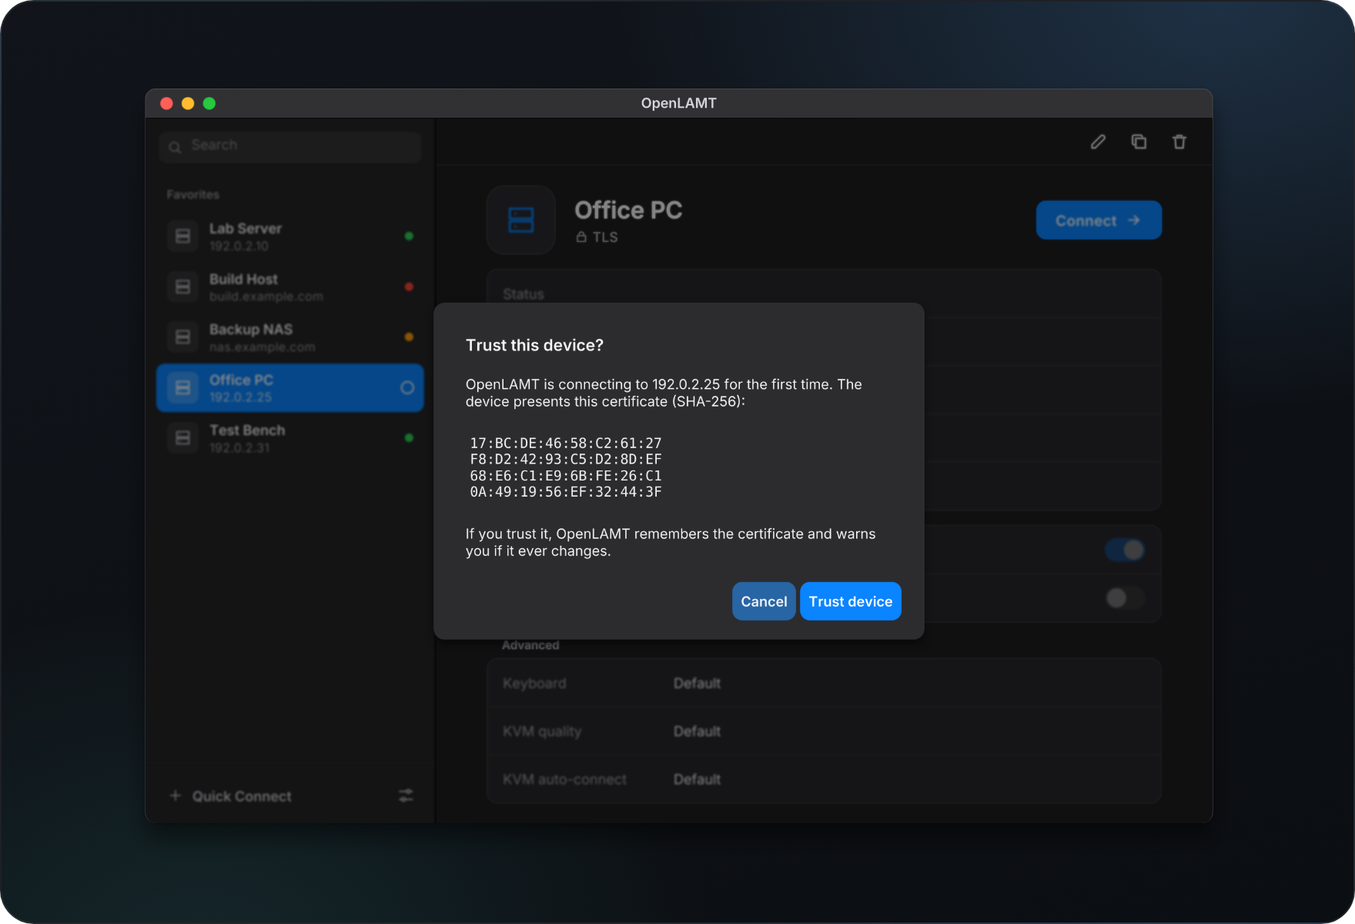
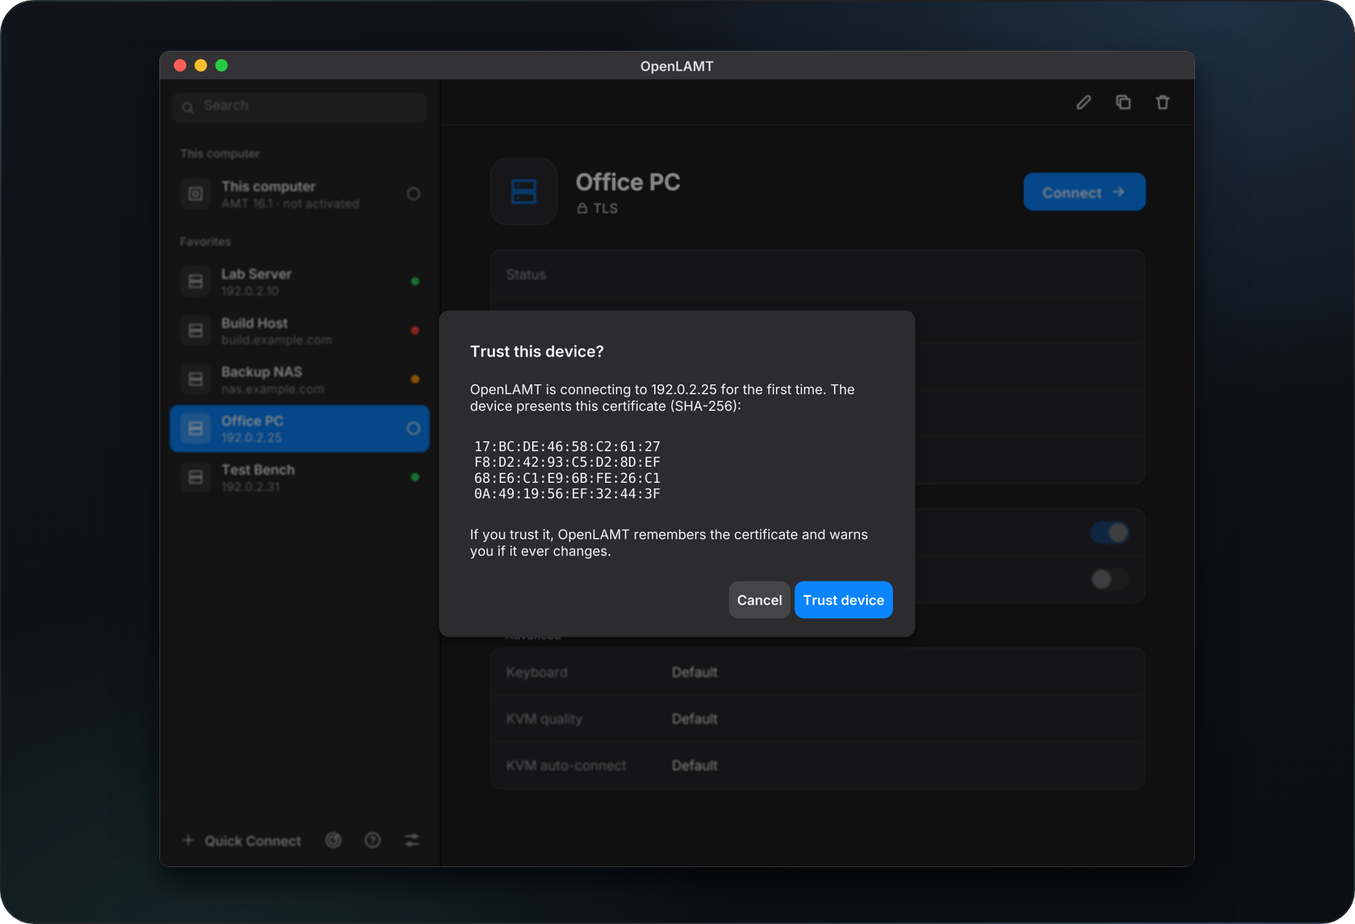
docs: refresh README with MCP, new features and current screenshots (#179)
* docs: refresh README with MCP, new features and current screenshots

- Download and User guide buttons under the claim
- New sections: Find your devices, Let an AI agent run your devices,
  And more; shorter MCP details that point to the MCP guide
- Re-rendered hero, favorites, cross-platform, power, settings and
  trust shots with the current UI; new scan, MCP client and
  System Defense shots
- MCP guide (EN and DE): the action log is written without a config
  file, and the mount question says when IDE-R gets turned on

* docs: show openlamt-mcp in Claude and polish the hero's MCP item

* docs: center the hero's New label and describe MCP as maintenance help

* docs: mention unattended OS installs in the hero's MCP item

* docs: show the three platform windows upright in the README

* docs: fan out the platform windows again, with upright edges

* docs: space the platform windows evenly by their window edges

* docs: align the platform windows by their content so each shows the same part

---------

diff --git a/site/de/mcp.html b/site/de/mcp.html
@@ -135,7 +135,7 @@
   <li><code>media_boot_next</code> lässt das Gerät beim nächsten Start vom Abbild booten. <code>boot_from_iso</code> startet es jetzt vom Abbild neu; ein ausgeschaltetes Gerät wird nur eingeschaltet. <code>media_status</code> zeigt, was eingehängt ist und wie schnell das Gerät es liest.</li>
   <li>Das Abbild bleibt eingehängt bis <code>media_unmount</code>, bis das Gerät die Sitzung beendet oder bis der Client den Server beendet. Die mit <code>media_boot_next</code> gesetzte Boot-Option wird dann gelöscht. Scheitert ein Boot vom Abbild auf halbem Weg, löscht <code>media_unmount</code> die Boot-Option ebenfalls.</li>
   <li>Eine Mediensitzung pro Gerät: Solange der Agent sie hält, kann das Menü „Medien“ der App auf diesem Gerät nichts einhängen, und umgekehrt.</li>
-  <li>Ist die Medienumleitung (IDE-R) ausgeschaltet, schaltet <code>media_mount</code> sie ein, und sie bleibt eingeschaltet. Dafür braucht es die Gruppe <code>settings</code>.</li>
+  <li>Ist die Medienumleitung (IDE-R) ausgeschaltet, schaltet <code>media_mount</code> sie ein, und sie bleibt eingeschaltet. Dafür braucht es die Gruppe <code>settings</code>. Mit <code>require_client_confirmation</code> sagt dir die Rückfrage zum Einhängen, dass IDE-R eingeschaltet wird.</li>
 </ul>
 <div class="warn"><b>Ein eingehängter Ordner ist am Gerät lesbar.</b>Wer das Gerät oder seinen Fernbildschirm nutzt, kann jede Datei eines eingehängten Ordners lesen. <code>openlamt-mcp</code> lehnt deshalb einige Ordner ab, aber die Liste kann nicht jeden Ort mit Geheimnissen abdecken. Setze <code>media.allowed_paths</code> auf die Ordner mit deinen Abbildern.</div>
 <div class="prose">
@@ -172,7 +172,7 @@
 </div>
 
 <h2 id="config">Begrenzen, was der Agent darf</h2>
-<div class="warn"><b>Ohne Konfigurationsdatei ist alles erlaubt.</b>Jeder Favorit und jede Aktion; nur die orangen und roten Änderungen an Einstellungen und Konten fragen nach. Schreib eine Konfigurationsdatei, bevor du deine Geräte einem Agenten überlässt, dem du nicht ganz vertraust.</div>
+<div class="warn"><b>Ohne Konfigurationsdatei ist alles erlaubt.</b>Jeder Favorit und jede Aktion; nur die orangen und roten Änderungen an Einstellungen und Konten fragen nach. Das Aktionsprotokoll wird trotzdem geschrieben. Schreib eine Konfigurationsdatei, bevor du deine Geräte einem Agenten überlässt, dem du nicht ganz vertraust.</div>
 <div class="prose">
 <p>Die Konfigurationsdatei ist <code>openlamt-mcp.json</code> neben <code>favorites.json</code> in deinem Konfigurationsordner, oder die Datei, die du mit <code>--config &lt;path&gt;</code> angibst. Das sind die Standardwerte:</p>
 <pre><code>{

diff --git a/site/mcp.html b/site/mcp.html
@@ -135,7 +135,7 @@
   <li><code>media_boot_next</code> makes the device boot from the image at its next start. <code>boot_from_iso</code> restarts it from the image now; a device that is off is only powered on. <code>media_status</code> shows what is mounted and how fast the device reads it.</li>
   <li>The image stays mounted until <code>media_unmount</code>, until the device ends the session, or until the client stops the server. The boot option set with <code>media_boot_next</code> is cleared then. If a boot from the image fails halfway, <code>media_unmount</code> clears the boot option as well.</li>
   <li>One media session per device: while the agent holds it, the app’s Media menu cannot mount on that device, and the other way round.</li>
-  <li>If media redirection (IDE-R) is off, <code>media_mount</code> turns it on, and it stays on. That needs the group <code>settings</code>.</li>
+  <li>If media redirection (IDE-R) is off, <code>media_mount</code> turns it on, and it stays on. That needs the group <code>settings</code>. With <code>require_client_confirmation</code>, the mount question says that IDE-R will be turned on.</li>
 </ul>
 <div class="warn"><b>A mounted folder can be read on the device.</b>Whoever uses the device, or its remote screen, can read every file of a mounted folder. <code>openlamt-mcp</code> therefore refuses some folders, but the list cannot cover every place with secrets. Set <code>media.allowed_paths</code> to the folders with your images.</div>
 <div class="prose">
@@ -172,7 +172,7 @@
 </div>
 
 <h2 id="config">Limit what the agent may do</h2>
-<div class="warn"><b>Without a config file, everything is allowed.</b>Every favorite and every action; only the orange and red settings and account changes ask. Write a config file before you hand your devices to an agent you do not fully trust.</div>
+<div class="warn"><b>Without a config file, everything is allowed.</b>Every favorite and every action; only the orange and red settings and account changes ask. The action log is written all the same. Write a config file before you hand your devices to an agent you do not fully trust.</div>
 <div class="prose">
 <p>The config file is <code>openlamt-mcp.json</code> next to <code>favorites.json</code> in your configuration folder, or the file given with <code>--config &lt;path&gt;</code>. These are the defaults:</p>
 <pre><code>{

diff --git a/README.md b/README.md
@@ -4,6 +4,8 @@
 
 **A local desktop app for Intel AMT, native on macOS, Windows and Linux: switch your devices on and off, use their screen and serial console, boot them from an ISO and manage their AMT settings, without a browser or a server.**
 
+<p align="center"><a href="https://github.com/Srv-02/openlamt/releases/latest"><img src="screenshots/btn-download.svg" alt="Download" height="44"></a>&nbsp;&nbsp;<a href="https://srv-02.github.io/OpenLAMT/"><img src="screenshots/btn-guide.svg" alt="User guide" height="44"></a></p>
+
 <br>
 
 <p align="center"><a href="https://www.buymeacoffee.com/michaelmayer"><img src="screenshots/bmc-button.png" alt="Buy me a coffee" height="64"></a></p>
@@ -23,7 +25,7 @@ Linux (x64)             OpenLAMT-<version>-linux-x64.AppImage  (any distribution
 
 Start OpenLAMT and connect to your first device with **Quick Connect**. The builds are not code-signed, so macOS and Windows warn on the first launch: see [Manual install](#manual-install).
 
-The [user guide](https://srv-02.github.io/OpenLAMT/) explains every window, page and Intel AMT setting step by step.
+The [user guide](https://srv-02.github.io/OpenLAMT/) explains every window, page and Intel AMT setting step by step, in English and [German](https://srv-02.github.io/OpenLAMT/de/).
 
 ## Features
 
@@ -35,15 +37,37 @@ The same app runs on macOS, Windows and Linux. No browser and no server in betwe
 
 ### All your devices at a glance
 
-![Start window with five favorites, their power state and the details of Lab Server](screenshots/favorites.png)
+![Start window with This computer, five favorites, their power state and the details of Lab Server](screenshots/favorites.png)
 
 Favorites keep each device with its settings, and a colored dot shows its power state. Passwords stay in the system keychain, never in a file.
+
+### Find your devices
+
+![The network scan with four Intel AMT devices found and two of them ticked](screenshots/scan.png)
+
+**Scan Network** finds Intel AMT devices in an address range and adds the ones you tick as favorites. The scan only reads and needs no password.
+
+- **Export and import:** move your favorites and settings to another computer. Passwords stay in the keychain.
+- **This computer (beta):** on Linux and Windows, check whether the computer in front of you has Intel AMT and whether it is activated.
 
 ### Power and remote screen in one window
 
 ![Device window with a remote BIOS screen over KVM and the Power menu open](screenshots/power.png)
 
 Each device opens in its own window with remote keyboard, video and mouse (KVM). Power on, power off, reset, power cycle, reboot into the BIOS, boot from a mounted ISO or shut down from the same toolbar.
+
+### Let an AI agent run your devices
+
+![Claude asks openlamt-mcp for the screen of Lab Server and shows the BIOS setup](screenshots/mcp.png)
+
+`openlamt-mcp` connects your OpenLAMT favorites to an AI agent, such as Claude Desktop, Claude Code or any other MCP client. The agent can read status and logs, switch devices on and off, look at the screen and type, use the serial console and boot from an ISO. It runs on your computer and opens no network port.
+
+- Device passwords stay in the keychain and never reach the agent.
+- A config file limits the agent to some devices or actions, or to reading only.
+- Changes that can cut you off from a device always ask you first.
+- An action log records every tool call.
+
+Setup and every tool: [MCP server](#mcp-server-openlamt-mcp) below and the [MCP guide](https://srv-02.github.io/OpenLAMT/mcp.html).
 
 ### Boot from an ISO or a folder
 
@@ -63,7 +87,7 @@ Each device opens in its own window with remote keyboard, video and mouse (KVM).
 
 ![Device window with the remote screen and the device management sidebar on the Hardware page](screenshots/manage.png)
 
-**Manage** opens a sidebar next to the remote screen, or a window of its own, with five pages: hardware, event log, audit log, AMT settings and user accounts. The hardware page lists system, BIOS, processor, memory, drives and the AMT version.
+**Manage** opens a sidebar next to the remote screen, or a window of its own, with hardware, event log, audit log, AMT settings, user accounts and the pages listed under [And more](#and-more). The hardware page lists system, BIOS, processor, memory, drives and the AMT version.
 
 ### Event log and audit log
 
@@ -87,9 +111,25 @@ The first TLS connection shows the certificate fingerprint of the device. OpenLA
 
 ### Your language, your look
 
-![Settings with language, appearance, color blind mode, update check, KVM options and hidden messages](screenshots/settings.png)
+![Settings with language, appearance, color blind mode, update check, poll interval and KVM options](screenshots/settings.png)
 
 English or German, light, dark or system appearance, and status colors for red-green color blindness. Type the clipboard into the remote system in 16 keyboard layouts. **Reset Warnings** brings back every message you hid with "Don't show again".
+
+### And more
+
+![Device management in a window of its own on the System Defense page, with every page in the list on the left](screenshots/manage-more.png)
+
+- **Remote screen:** scale the picture, save a screenshot or record a video.
+- **Power:** Sleep and Hibernate, wake alarms that switch a device on at a set time, and the power policy.
+- **Boot options:** choose what the device starts from next, for example PXE or the BIOS setup, with options such as Secure Boot or locked buttons.
+- **One Click Recovery:** start a device once from a recovery image over HTTPS (Intel AMT 16 or later).
+- **Erase drives:** Remote Secure Erase and Remote Platform Erase, before you pass a device on.
+- **Certificates:** see, import and delete the certificates and trusted roots stored in AMT.
+- **Wi-Fi:** add, edit and delete the wireless profiles of a device.
+- **System Defense** (Intel AMT 11 and earlier): network filters and policies, and watchdogs for agents on the device.
+- **Event forwarding and audit settings:** send AMT events to a server, and choose what the audit log records.
+- **WSMAN Browser:** read the raw AMT, CIM and IPS classes of a device.
+- **Help on the spot:** the ⓘ next to an AMT setting explains what it does and, for risky settings, what can go wrong.
 
 ## Details
 
@@ -180,9 +220,7 @@ If a step does not work, the package stays in `~/Downloads` and OpenLAMT says ho
 
 ### MCP server (openlamt-mcp)
 
-`openlamt-mcp` lets an AI agent (Claude Desktop, Claude Code or any other MCP client) use your OpenLAMT favorites: read status, hardware, logs, settings and accounts, switch devices on and off, boot them into the BIOS or from an ISO file or a folder, look at the screen over KVM, type and use the mouse, read and write the serial console, and change AMT settings and accounts. The client starts it and talks to it over stdin and stdout. It opens no network port.
-
-**Install:** download the archive for your system from the [Releases page](https://github.com/Srv-02/openlamt/releases) and unpack it anywhere. It holds a single program without dependencies:
+`openlamt-mcp` is a separate program. Download the archive for your system from the [Releases page](https://github.com/Srv-02/openlamt/releases) and unpack it anywhere. It holds a single program without dependencies:
 
 ```text
 macOS (Apple Silicon)   openlamt-mcp-<version>-macos-arm64.tar.gz
@@ -190,68 +228,13 @@ Windows (x64)           openlamt-mcp-<version>-windows-x64.zip
 Linux (x64)             openlamt-mcp-<version>-linux-x64.tar.gz
 ```
 
-The program is not code-signed. On macOS, remove the quarantine attribute once (`xattr -d com.apple.quarantine openlamt-mcp`); on Windows, SmartScreen may warn on the first start. To build it yourself: `go build -o openlamt-mcp ./cmd/openlamt-mcp` (no C compiler needed). Then add it to your MCP client:
+Save the device passwords in the app first, then add the program to your MCP client:
 
 ```json
 {"mcpServers": {"openlamt": {"command": "/path/to/openlamt-mcp"}}}
 ```
 
-**Tools**, by tool group of the config file (below):
-
-| Group | Tools |
-|---|---|
-| always | `list_devices` (contacts no device) |
-| `read` | `device_status`, `hardware_info`, `event_log`, `audit_log`, `kvm_screenshot`, `sol_read` |
-| `read` or `kvm_input` | `kvm_connect`, `kvm_disconnect`, `sol_connect`, `sol_disconnect` |
-| `read` and `settings` | `get_settings` |
-| `read` and `users` | `list_users` |
-| `power_boot` | `power_action` (on, off, reset, cycle, shutdown), `boot_to_bios` |
-| `media` | `media_mount`, `media_unmount`, `media_status`, `media_boot_next`; with `power_boot` also `boot_from_iso` |
-| `kvm_input` | `kvm_send_keys`, `kvm_mouse`, `kvm_type_text`, `sol_type_text`, `sol_send_keys` |
-| `settings` | `set_general` (host name, domain, ping, dynamic DNS), `set_remote_features` (KVM, IDE-R, SOL, user consent), `sync_clock`, `set_tls_certificate` |
-| `settings` and `destructive` | `set_network`, `set_environment_detection`, `disable_amt_network` |
-| `users` | `add_user`, `update_user`, `set_user_enabled`, `delete_user` |
-| `users` and `destructive` | `set_admin_account` |
-
-- **Devices and passwords** come from the OpenLAMT favorites and the system keychain. Save the password in the app first; the device passwords never pass through the MCP connection. A TLS device works only after you connected once with the app and its certificate is pinned; the MCP server never trusts a new certificate. Devices without TLS work, with a warning in each answer.
-- **User consent:** if a device asks for consent (Client Control Mode), the agent has to ask a person at the device for the six-digit code on its screen (`boot_to_bios`, `kvm_connect`, `sol_connect`, `media_mount`). In `read_only` mode a consent request may still show a code on the device screen; it changes no setting.
-- **Remote screen:** `kvm_connect` opens the KVM session of a device and keeps it for the following calls. `kvm_screenshot` returns the screen as an image sized for AI models: by default at most 1280 pixels on the longest side, as JPEG. `kvm_send_keys` presses keys and combinations such as `Ctrl+Alt+Delete`, `kvm_mouse` moves, clicks and scrolls at a point of the last screenshot, and `kvm_type_text` types text for the keyboard layout of the favorite. AMT allows one KVM session per device: while the agent holds it, the app cannot connect KVM to that device, and the other way round. The session closes with `kvm_disconnect`, after five minutes without a call, or when the MCP client stops the server. Power off, power cycle and shutdown close it first, because AMT refuses them while KVM is open. If KVM is off on the device, `kvm_connect` turns it on. That is a settings change, so it needs the tool group `settings` and, with `require_client_confirmation`, your answer to a question; without `settings` the call says what to turn on. The wake key that `kvm_connect` presses on a new session needs the tool group `kvm_input`.
-- **Media:** `media_mount` mounts an `.iso` file or a folder on a device as a read-only CD drive. The agent gives its absolute path on the computer that runs `openlamt-mcp`. A folder becomes a temporary ISO first, as in the app. A big folder takes a while, and the build runs within the tool call, so an MCP client with a short tool timeout may abort it. `media_boot_next` makes the device boot from the image at its next start, `boot_from_iso` restarts it from the image now. `media_status` shows what is mounted and how fast the device reads it. The image stays mounted until `media_unmount`, until the device ends the session, or until the MCP client stops the server; the boot option set with `media_boot_next` is cleared then. AMT allows one media session per device: while the agent holds it, the app's Media menu cannot mount on that device, and the other way round. If media redirection (IDE-R) is off on the device, `media_mount` turns it on, and it stays on: only with the tool group `settings`, and with `require_client_confirmation` the mount question says so. A mounted folder can be read on the device, so `media_mount` resolves links first, checks that the file it opens is the one it checked, builds a folder image so that nothing outside the folder can end up in it (links inside are left out), and never mounts your home folder itself, a folder above it, or the folders that hold credentials and settings: `~/.ssh`, `~/.gnupg`, `~/.aws`, `~/.azure`, `~/.config`, `~/.local/share`, `~/.local/state`, `~/.kube`, `~/.docker`, `~/.password-store`, `~/.mozilla`, `~/.thunderbird`, `~/.pki`, `~/.claude`, `~/.cargo`, `~/.m2`, `~/.gradle`, `~/.terraform.d`, `~/.var/app`, `~/snap`, all of `~/Library` on macOS, `%APPDATA%` and `%LOCALAPPDATA%` on Windows, and the OpenLAMT configuration folder (favorites, `openlamt-mcp.json`, the action log). These folders are recognized by file identity, so another spelling of the same folder (a link, a bind mount, a macOS firmlink, a Windows junction) is refused too, and a folder image stops when one of them turns up inside; on Windows, `\\?\` and `\\.\` paths and administrative shares such as `\\host\C$` are refused. The list is best effort and cannot cover every place with secrets: set `media.allowed_paths` to the folders with your images.
-- **Serial console:** `sol_connect` opens the serial console (Serial over LAN) of a device. Its output goes into a buffer of 1 MiB per device. `sol_read` returns it as plain text and goes on where the last read ended. `sol_type_text` writes printable ASCII text, with line breaks as Enter, and `sol_send_keys` presses keys such as `Ctrl+C`, `Up` or `F10` as xterm sequences. A BIOS setup over the serial console often expects other codes for function keys; KVM works there too. AMT allows one serial console session per device: while the agent holds it, the app's Console view cannot connect, and the other way round. The session closes with `sol_disconnect`, after five minutes without a call, or when the MCP client stops the server. If SOL is off on the device, `sol_connect` turns it on, as `kvm_connect` does for KVM: only with the tool group `settings`, and with `require_client_confirmation` after a question.
-- **AMT settings and accounts:** `get_settings` and `list_users` show what the app's Settings and Users pages show; a section the account may not read is listed in `not_permitted`, one the firmware lacks in `not_available`. The other tools change what those pages change, with the same safeguards:
-  - A change the app writes at once (ping, switching a feature on, user consent, the clock, adding, editing or disabling another account) asks you in the MCP client only with `require_client_confirmation`. Switching a feature on counts as such a change also when `kvm_connect`, `sol_connect` or `media_mount` do it.
-  - A change the app guards with an **orange** warning (host name, domain, dynamic DNS, switching KVM, IDE-R or SOL off, the TLS certificate, changing the account the favorite signs in with, deleting an account, lowering the user consent policy) **always** asks you in the MCP client, whatever `require_client_confirmation` says. A client that cannot ask gets a refusal; make the change in the app then.
-  - A change with a **red** warning (network settings, environment detection, turning AMT off on the network, the admin account) can lock OpenLAMT out of the device. It needs the tool groups `settings` or `users` and `destructive`, the agent has to repeat the device name in `confirm`, and you are always asked.
-  - The question shows what changes and the app's warning. Your answer counts only for exactly these arguments and this favorite (its name, host and user): if one of them changes, it is refused.
-  - When the account the favorite signs in with or its certificate changes, the keychain and the favorite follow, as in the app.
-  - **Passwords** of new or changed accounts are tool arguments: the agent chooses them, so they are part of your conversation with it and of the MCP client's records. `openlamt-mcp` never writes them to the action log, a log line, an answer or a question. Without TLS the device receives the password as a digest that works like the password itself. Like the app, `openlamt-mcp` then **always** asks you in the MCP client before it sends one (`add_user`, `update_user`, `set_admin_account`), whatever `require_client_confirmation` says; the question and the answer warn about it. The same holds for `kvm_type_text` and `sol_type_text` with `secret` on a device without TLS. A client that cannot ask gets a refusal that names the reason; use TLS, the app, or a client with elicitation.
-- **Settings:** `openlamt-mcp.json` next to `favorites.json`, or the file given with `--config <path>`:
-
-  ```json
-  {
-    "read_only": false,
-    "allowed_devices": [],
-    "tool_groups": {"read": true, "power_boot": true, "media": true, "kvm_input": true,
-                    "settings": true, "users": true, "destructive": true},
-    "require_client_confirmation": false,
-    "action_log": {"enabled": true, "path": ""},
-    "kvm": {"idle_timeout_seconds": 300, "screenshot_max_width": 1280, "screenshot_max_height": 1280,
-            "screenshot_format": "jpeg", "screenshot_jpeg_quality": 80},
-    "sol": {"idle_timeout_seconds": 300},
-    "media": {"allowed_paths": []}
-  }
-  ```
-
-  - `read_only` leaves only the read tools: status, logs, settings and accounts, the screenshot and reading the serial console. It never writes a setting, never turns KVM, SOL or media redirection on and sends no input to the host.
-  - `allowed_devices` takes favorite names, empty means all.
-  - `tool_groups` switches the groups of the table above on and off. `destructive` covers every power action except power on, `boot_from_iso` on a device that is not off, and the red settings and account changes.
-  - `require_client_confirmation` asks you in the MCP client before each power action, each key, mouse or typing call, each mount and `media_boot_next`, and each settings or account change; orange and red changes ask always. The question shows every key, the text to type and the full path to mount, after links are resolved, with each line break (an Enter press) shown as ⏎ and invisible or direction-changing characters as their code point, unless the agent marks a single line without line breaks as `secret`; the question then says that the agent chose to hide it. A client that cannot ask gets a refusal.
-  - `kvm` sets the idle timeout of a KVM session (`0` keeps it open until the server stops) and the default size, format (`jpeg` or `png`) and quality of screenshots; the agent may ask for another size or format per call. `sol` sets the idle timeout of a serial console session.
-  - `media.allowed_paths` limits `media_mount` to the folders you list (absolute paths), empty means anywhere but the protected folders.
-  - `action_log` writes one line per tool call to `openlamt-mcp-actions.log` next to the config file unless you give another `path`. It holds the keys and mouse actions, the mounted paths and the settings changed, but never text typed over KVM or the serial console, a consent code or a password.
-  - Each key you leave out keeps the value shown above, and an unknown key stops the server.
-
-**Without a config file, everything is allowed:** every favorite and every action; only the orange and red settings and account changes ask. The action log is written all the same. Before you hand your devices to an agent you do not fully trust, write a config file. A good start: `read_only` for looking only; otherwise list the devices in `allowed_devices`, switch off the groups you do not need (`destructive`, `settings` and `users` first), turn on `require_client_confirmation`, and set `media.allowed_paths`.
+**Without a config file, everything is allowed:** every favorite and every action; only the risky settings and account changes ask. Before you hand your devices to an agent you do not fully trust, write a config file. The [MCP guide](https://srv-02.github.io/OpenLAMT/mcp.html) lists every tool and explains the config file `openlamt-mcp.json`, user consent, KVM, media, the serial console and the action log.
 
 ### Removing
 
